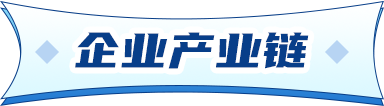
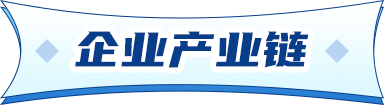
滚动条版本

diff --git a/m/index.html b/m/index.html
@@ -44,7 +44,7 @@
           rem: { bline: "bx", rval: 750 },
         });
       } else {
-        window.location.href = "../index.html";
+        // window.location.href = "../index.html";
       }
       var loader51 = new IENV.Loader({ auto: true });
     </script>
@@ -89,7 +89,14 @@
           >
             <img src="images/enter.png" />
           </div>
-          <div class="footer">
+          <div
+            class="footer"
+            style="
+              background: transparent;
+              color: #cccccc;
+              margin-bottom: 0.1rem;
+            "
+          >
             无忧工作网版权所有©<span
               >1999 -
               <script>
@@ -107,30 +114,65 @@
             <div class="info">
               <div class="txt">
                 <!-- <video src="https://ideal.chinaceotv.com/2022/0917ycj/jgjt.mp4" controls></video> -->
-                <div class="tit"><img src="images/s1-title1.png" /></div>
-                <img src="images/s1-1.png" style="width: 6.64rem" />
+                <!-- <div class="tit"><img src="images/s1-title1.png" /></div>
+                <img src="images/s1-1.png" style="width: 6.64rem" /> -->
                 <div class="tit"><img src="images/s1-title2.png" /></div>
                 <img src="images/s1-2.png" style="width: 6.12rem" />
-                <img src="images/s1-7.png" style="width: 6.12rem" />
+                <!-- <img src="images/s1-7.png" style="width: 6.12rem" /> -->
                 <div class="tit"><img src="images/s1-title3.png" /></div>
                 <img src="images/s1-3.png" style="width: 6.15rem" />
                 <br />
                 <p class="te">
-                  五大事业群，全产业链协同联动，为客户提供高效的建筑<br />
+                  五大事业群，全产业链协同联动，为客户提供高效的建筑
                   全生命周期服务整体解决方案。
                 </p>
                 <br />
-                <img src="images/s1-4.png" />
-                <br />
-                <p class="te">
+                <div class="tit" style="width: 2.6rem;"><img src="images/bt1.png" /></div>
+                <div class="gsjj_lb">
+                  <div class="swiper mySwiper">
+                    <div class="swiper-wrapper">
+                      <div class="swiper-slide">
+                        <img src="images/lb/1.png"></img>
+                      </div>
+                      <div class="swiper-slide">
+                        <img src="images/lb/2.png"></img>
+                      </div>
+                      <div class="swiper-slide">
+                        <img src="images/lb/3.png"></img>
+                      </div>
+                      <div class="swiper-slide">
+                        <img src="images/lb/4.png"></img>
+                      </div>
+                      <div class="swiper-slide">
+                        <img src="images/lb/5.png"></img>
+                      </div>
+                      <div class="swiper-slide">
+                        <img src="images/lb/6.png"></img>
+                      </div>
+                      
+                    </div>
+                  </div>
+                </div>
+                <div class="tit" style="width: 3rem;"><img src="images/bt2.png" /></div>
+                <img src="images/t1.png" style="width: 6.17rem" />
+                
+                <!-- <img src="images/s1-4.png" />
+                <br /> -->
+                <!-- <p class="te">
                   全产业链绿色发展再添新引擎，积极践行“绿水青山就是<br />
                   金山银山”理念，助力建设“美丽中国”。
-                </p>
+                </p> -->
                 <div class="tit"><img src="images/s1-title4.png" /></div>
                 <img src="images/s1-5.png" style="width: 6.17rem" />
+                <div class="tit"><img src="images/s1-title7.png" /></div>
+                <img src="images/kjfn.png" style="width: 6.17rem" />
                 <div class="tit"><img src="images/s1-title5.png" /></div>
                 <img src="images/s1-6.png" style="width: 6.17rem" />
+                <div class="tit"><img src="images/s1-title8.png" /></div>
                 <img src="images/s1-8.png" style="width: 6.12rem" />
+                <br /> 
+                <br /> 
+                <br /> 
               </div>
             </div>
             <ul class="nav">
@@ -1339,6 +1381,8 @@
     <script src="js/data.js"></script>
     <script src="js/rmjob.js"></script>
     <script>
+
+    var swiper = new Swiper(".mySwiper", {});
       var elevideo = $("video");
 
       $(".jg").click(function () {
@@ -1366,6 +1410,8 @@
         imgUrl: "images/share.png", //图片路径
         debug: false,
       });
+
+
     </script>
   </body>
 </html>

diff --git a/index1.html b/index1.html
@@ -174,25 +174,15 @@
             <div class="png">
                 <img src="./img/p1.png" alt="">
             </div> -->
-
-            <div class="titbg">
-                <em>企业实力</em>
-            </div>
-
+            <div class="png"><img src="./img/title1.png" alt=""></div>
             <div class="png">
                 <img src="./img/p1-2.png" alt="">
             </div>
-
-            <div class="titbg">
-                <em>企业产业链</em>
-            </div>
-
+            <div class="png"><img src="./img/title2.png" alt=""></div>
             <div class="png">
                 <img src="./img/p1-3.png" alt="">
             </div>
-             <div class="titbg" style="background: none;margin: 0 auto 30px">
-                <em>六大新兴业务</em>
-            </div>
+            <div class="png"><img src="./img/title3.png" alt=""></div>
             <div class="lbbox">
                 <div class="swiper swiper2">
                     <div class="swiper-wrapper">
@@ -214,36 +204,24 @@
                     </div>
                 </div>
               </div>
-            <div class="titbg" style="background: none;margin: 0 auto 30px">
-                <em>建筑机器人方阵</em>
-            </div>
+           <div class="png"><img src="./img/title4.png" alt=""></div>
             <div class="png">
                 <img src="./img/p1-7.png" alt="">
             </div>
-            <div class="titbg">
-                <em>市场布局</em>
-            </div>
+            <div class="png"><img src="./img/title5.png" alt=""></div>
             <div class="png">
                 <img src="./img/p1-4.png" alt="">
             </div>
-             <div class="titbg">
-                <em>科技赋能</em>
-            </div>
+            <div class="png"><img src="./img/title6.png" alt=""></div>
             <div class="png">
                 <img src="./img/p1-8.png" alt="">
             </div>
-            <div class="titbg">
-                <em>职等你来</em>
-            </div>
+            <div class="png"><img src="./img/title7.png" alt=""></div>
 
             <div class="png">
                 <img src="./img/p1-55.png" alt="">
             </div>
-
-            <div class="titbg">
-                <em>薪酬福利</em>
-            </div>
-
+            <div class="png"><img src="./img/title8.png" alt=""></div>
             <div class="png">
                 <img src="./img/p1-6.png" alt="">
             </div>

diff --git a/m/css/style.css b/m/css/style.css
@@ -135,8 +135,10 @@ img {
 #s0 {
   background: url(../images/indexBg.png) no-repeat top center/100% 100%;
 }
-
-#s1,
+/* #s1{
+  background: url(../images/mainBg2.png) no-repeat top center/100% 100%;
+} */
+ #s1,
 #s2,
 #s3,
 #s4,
@@ -315,4 +317,26 @@ img {
 
 input::-webkit-input-placeholder {
   color: #ffffff;
+}
+
+
+.gsjj_lb .swiper {
+  width: 100%;
+  height: 100%;
+}
+
+.gsjj_lb .swiper-slide {
+  text-align: center;
+  font-size: 18px;
+  background: #fff;
+  display: flex;
+  justify-content: center;
+  align-items: center;
+}
+
+.gsjj_lb .swiper-slide img {
+  display: block;
+  width: 100%;
+  height: 100%;
+  object-fit: cover;
 }
